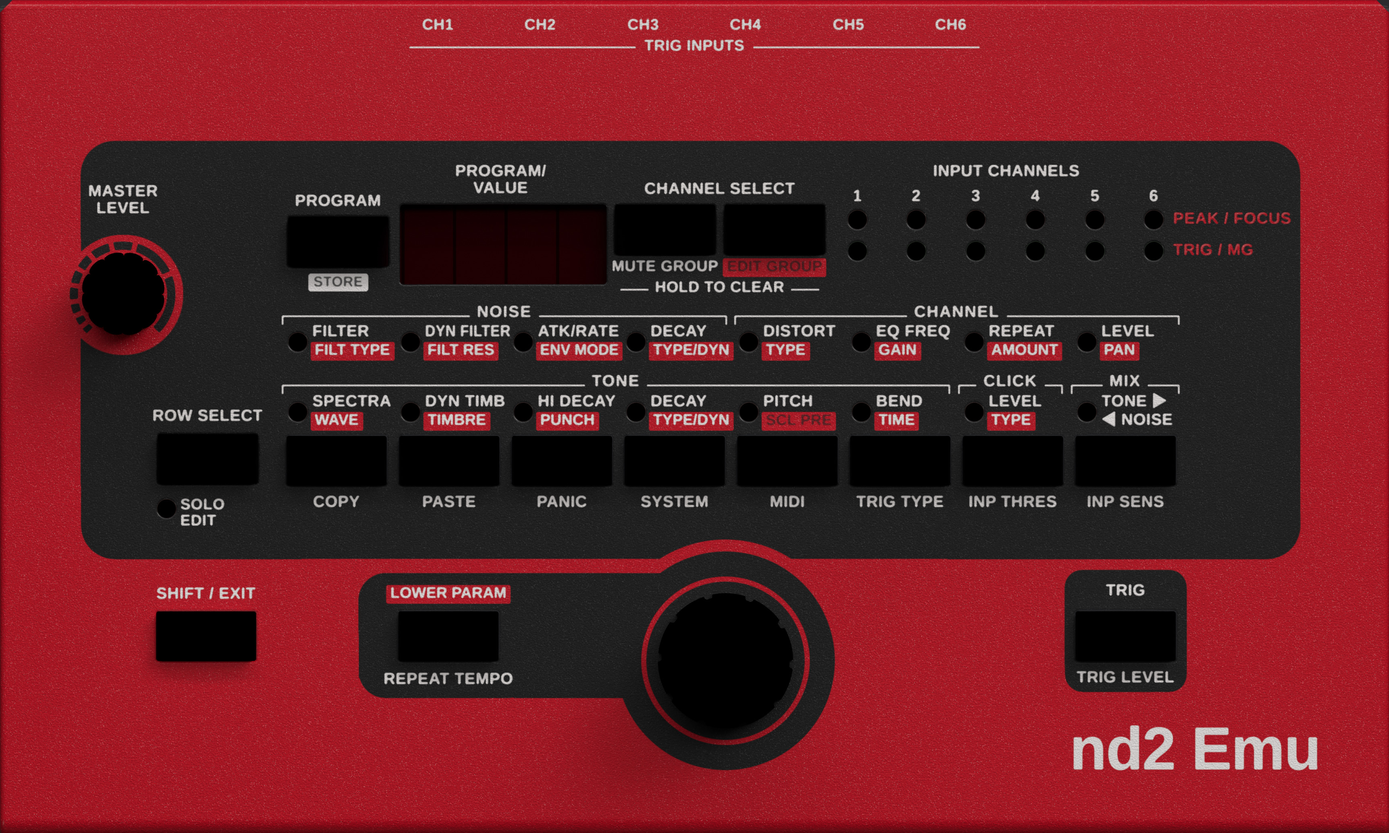
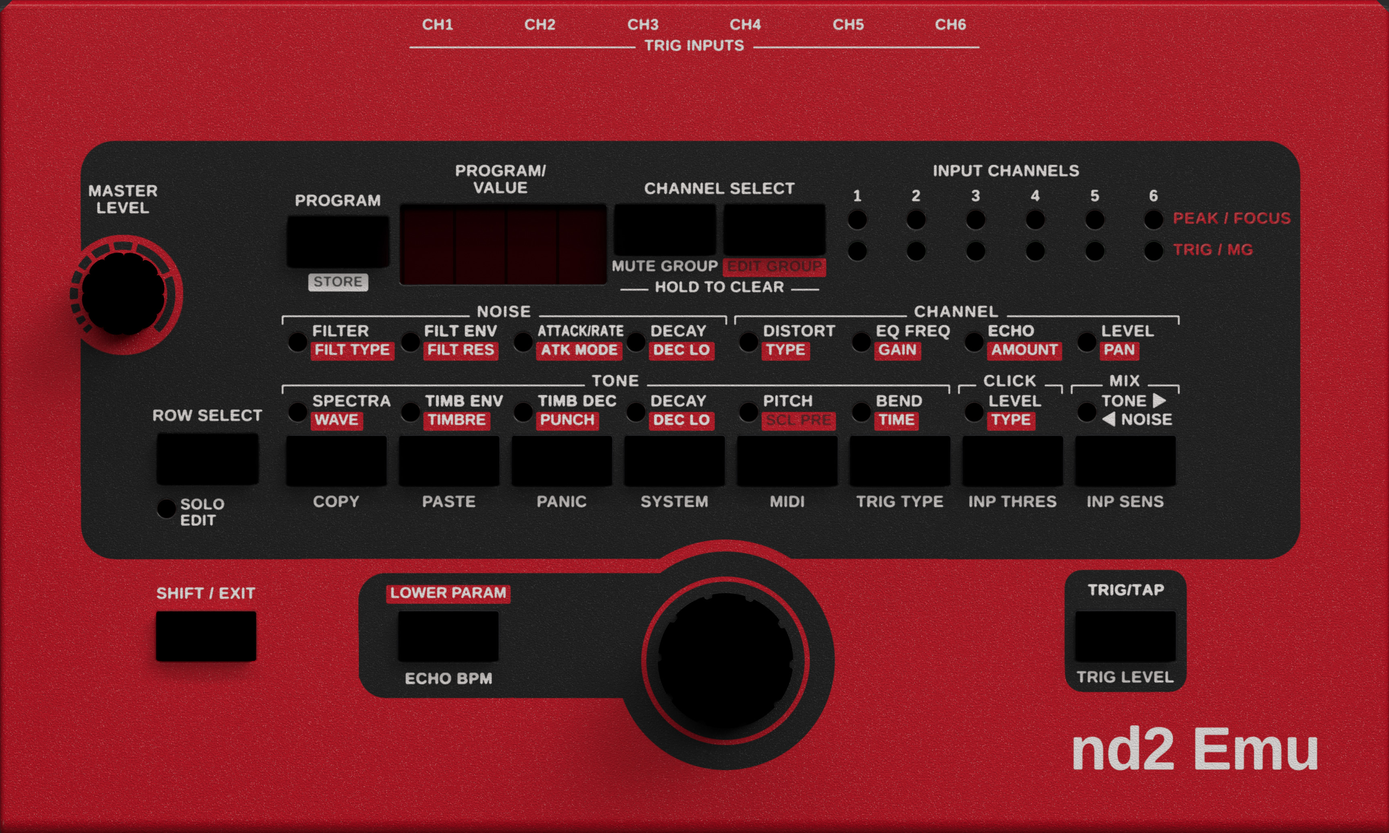
Default skin: background with the newer parameter names
FILT ENV, ATTACK/RATE, ATK MODE, DEC LO (both rows), ECHO, TIMB ENV, TIMB DEC, ECHO BPM and
TRIG/TAP replace the older names on the panel. Only the background image changes; buttons,
LEDs, knobs, display, stylesheet and bent-mode files stay as they are.

From skin-blender: relabel.py (letters the names into the flat art before the paint maps)
and the Skin files workflow's background-only packing, offered as a "Background only"
option of the manual run. The workflow still runs only when started by hand.

Claude-Session: https://claude.ai/code/session_014HvohCNRUpwukZP1kK2uMv

diff --git a/tools/skin/relabel.py b/tools/skin/relabel.py
@@ -1,0 +1,129 @@
+# Renames panel lettering in the flat art the 3D skin is made from (the newer parameter names), so masks.py and the
+# renders pick them up. Old words are painted out with the panel colour around them and the new ones lettered in the
+# art's own style (Liberation Sans Bold, its colours and places); a renamed tag gets a box of the new length.
+# Only the renamed words change; they keep the art's size and weight. ATTACK/RATE is far longer than ATK/RATE: it keeps
+# the full height and its letters are narrowed just enough to stay clear of the next column's LED (owner: taller, not
+# wider).
+#   python3 relabel.py ART_IN.jpg ART_OUT.png
+# The art is never committed; it is made at run time from the owner's art (git show ec1ba0b:...).
+import sys
+
+import numpy as np
+from PIL import Image, ImageDraw, ImageFont
+
+FONT = '/usr/share/fonts/truetype/liberation/LiberationSans-Bold.ttf'
+LABEL_PX, LABEL_LS = 38.4, 1.4           # the art's lettering at 2x: size and spacing that match its words exactly
+TAG_PX, TAG_LS = 35.2, 1.4               # the art's tag lettering at 2x (matched the same way)
+BOLDEN = 0.5                             # extra stroke per side (px at 2x): the art's 6 px stems
+DARKRED_RGB = (98, 9, 12)                # SCL PRE's dark red lettering
+LABEL_RGB, TAG_TEXT_RGB = (222, 222, 222), (240, 223, 223)
+PANEL_RGB, TAG_RGB = (32, 32, 31), (193, 28, 35)
+TAG_PAD_L, TAG_PAD_R, TAG_TOP, TAG_BOTTOM_PAD = 13, 12, 6, 14
+
+# the parameter names, left to right (upper row, lower row); None = unchanged text, relettered at the common size
+PARX = [370, 510, 650, 790, 930, 1070, 1210, 1350]          # column x (dp): LED centre; the name starts 18 dp right
+UPPER = ['FILTER', 'FILT ENV', 'ATTACK/RATE', 'DECAY', 'DISTORT', 'EQ FREQ', 'ECHO', 'LEVEL']
+LOWER = ['SPECTRA', 'TIMB ENV', 'TIMB DEC', 'DECAY', 'PITCH', 'BEND', 'LEVEL', 'TONE \u25b6']
+UPPER_TAGS = ['FILT TYPE', 'FILT RES', 'ATK MODE', 'DEC LO', 'TYPE', 'GAIN', 'AMOUNT', 'PAN']
+LOWER_TAGS = ['WAVE', 'TIMBRE', 'PUNCH', 'DEC LO', 'SCL PRE', 'TIME', 'TYPE', None]   # TONE's column: no tag
+TAG_ROWS = {'up': (846, 900), 'lo': (1020, 1074)}           # the red tag boxes (2x px, y)
+ROW_CAP = {'up': (806, 846), 'lo': (980, 1016)}              # where the old names' letters are (2x px, y)
+NOISE_LINE = (1026, 1070)                                    # the '<| NOISE' line under TONE (2x px, y)
+LED_R = 23                                                   # LED hole radius (2x px)
+GAP = 8                                                      # a name stops this far before the next LED hole
+# (old ink box x0, y0, x1, y1 in 2x art px, new text, kind, anchor x) -- kind: centre, tag
+EDITS = [
+    ((955, 1672, 1272, 1699), 'ECHO BPM', 'centre', 1114),
+    ((2747, 1452, 2841, 1479), 'TRIG/TAP', 'centre', 2796),
+]
+
+
+def text_image(text, px, ls, rgb, bold=BOLDEN):
+    """The word on a transparent image, cropped to its letters from the cap line down. Drawn at 4x and reduced,
+    with a stroke of `bold` px per side: the art's lettering is heavier than the plain font (6 px stems at 20 dp
+    against the font's 5), and smaller lettering needs it to read as bold."""
+    k = 4
+    f = ImageFont.truetype(FONT, px * k)
+    sym = ImageFont.truetype('/usr/share/fonts/truetype/dejavu/DejaVuSans-Bold.ttf', px * k * 0.78)   # the arrows
+    font_of = lambda ch: sym if ch in '\u25b6\u25c0' else f
+    sw = int(round(bold * k))
+    w = int(sum(font_of(ch).getlength(ch) for ch in text) + ls * k * len(text) + 40 * k)
+    im = Image.new('L', (w, int(px * k * 1.6)), 0)
+    d = ImageDraw.Draw(im)
+    x = float(2 * sw)
+    cap_top = f.getbbox('H')[1]
+    for ch in text:
+        g = font_of(ch)
+        dy = 0 if g is f else cap_top - g.getbbox(ch)[1] + (f.getbbox('H')[3] - cap_top - (g.getbbox(ch)[3] - g.getbbox(ch)[1])) / 2
+        d.text((x, dy + sw), ch, font=g, fill=255, stroke_width=sw, stroke_fill=255)
+        x += g.getlength(ch) + ls * k
+    box = im.getbbox()
+    im = im.crop((box[0], max(0, cap_top + sw - sw), box[2], box[3]))
+    im = im.resize((max(1, round(im.width / k)), max(1, round(im.height / k))), Image.LANCZOS)
+    rgba = Image.new('RGBA', im.size, (*rgb, 0))
+    rgba.putalpha(im)
+    return rgba
+
+
+def natural_width(text, px):
+    return text_image(text, px, LABEL_LS * px / LABEL_PX, LABEL_RGB).width
+
+
+RENAMED_LABELS = {('up', 1): 'FILT ENV', ('up', 2): 'ATTACK/RATE', ('up', 6): 'ECHO',
+                  ('lo', 1): 'TIMB ENV', ('lo', 2): 'TIMB DEC'}
+RENAMED_TAGS = {('up', 2): 'ATK MODE', ('up', 3): 'DEC LO', ('lo', 3): 'DEC LO'}
+
+
+def main():
+    art = Image.open(sys.argv[1]).convert('RGB')
+    out = sys.argv[2]
+    d = ImageDraw.Draw(art)
+    px_all = np.asarray(art).astype(np.float32)
+
+    def around(x0, y0, x1, y1, m=10):
+        """The panel colour just around a box (its median, lettering left out)."""
+        ring = np.concatenate([px_all[y0 - m:y0 - 5, x0:x1].reshape(-1, 3), px_all[y1 + 5:y1 + m, x0:x1].reshape(-1, 3)])
+        ring = ring[ring.max(-1) < 120]
+        return tuple(int(v) for v in np.median(ring, 0)) if len(ring) else PANEL_RGB
+
+    def ink_box(x0, x1, y0, y1):
+        sub = px_all[y0:y1, x0:x1]
+        ys, xs = np.where(sub.min(-1) > 150)
+        return (int(xs.min()) + x0, int(ys.min()) + y0, int(xs.max()) + x0, int(ys.max()) + y0)
+
+    # 1) renamed parameter names, at the art's size; ATTACK/RATE as large as fits before the next LED
+    attack_dp = None
+    for (row, i), word in RENAMED_LABELS.items():
+        left = (PARX[i] + 18) * 2
+        limit = PARX[i + 1] * 2 - LED_R - GAP
+        x0, y0, x1, y1 = ink_box(left - 6, (PARX[i + 1] + 18) * 2 - 10, *ROW_CAP[row])
+        d.rectangle((x0 - 4, y0 - 4, x1 + 4, y1 + 4), fill=around(x0, y0, x1, y1))
+        t = text_image(word, LABEL_PX, LABEL_LS, LABEL_RGB)
+        if t.width > limit - left:              # ATTACK/RATE: full height, letters narrowed to fit the column
+            attack_dp = (limit - left) / t.width
+            t = t.resize((limit - left, t.height), Image.LANCZOS)
+        base = ROW_CAP[row][0] + 2 + 28                                   # the row's baseline (cap bottom)
+        art.paste(t, (left, base - t.height), t)
+    # 2) renamed tags, the art's size, boxes of the new length
+    for (row, i), word in RENAMED_TAGS.items():
+        ty0, ty1 = TAG_ROWS[row]
+        x_left = (PARX[i] + 16) * 2
+        sub = px_all[ty0:ty1, x_left - 4:(PARX[i + 1] + 16) * 2 - 8]
+        ys, xs = np.where((sub[..., 0] > 150) & (sub[..., 1] < 90))
+        bx0, by0, bx1, by1 = x_left - 4 + xs.min(), ty0 + ys.min(), x_left - 4 + xs.max(), ty0 + ys.max()
+        d.rectangle((bx0 - 3, by0 - 3, bx1 + 3, by1 + 3), fill=around(bx0, by0, bx1, by1))
+        t = text_image(word, TAG_PX, TAG_LS, TAG_TEXT_RGB)
+        d.rounded_rectangle((bx0, by0, bx0 + TAG_PAD_L + t.width + TAG_PAD_R, by1), radius=4, fill=TAG_RGB)
+        art.paste(t, (bx0 + TAG_PAD_L, by0 + TAG_TOP), t)
+    # 3) the other renamed words, centred where the old ones were
+    for (x0, y0, x1, y1), new, kind, ax in EDITS:
+        d.rectangle((x0 - 4, y0 - 4, x1 + 4, y1 + 4), fill=around(x0, y0, x1, y1))
+        t = text_image(new, LABEL_PX, LABEL_LS, LABEL_RGB)
+        art.paste(t, (round(ax - t.width / 2), y1 + 1 - t.height), t)
+    art.save(out)
+    print('renamed:', ', '.join(list(RENAMED_LABELS.values()) + list(RENAMED_TAGS.values()) + [e[1] for e in EDITS]),
+          f'(all at the art\'s size; ATTACK/RATE narrowed to {attack_dp:.0%} width)')
+
+
+if __name__ == '__main__':
+    main()

diff --git a/tools/skin/blender/pack_skin.py b/tools/skin/blender/pack_skin.py
@@ -83,6 +83,29 @@ else:
 assert bg.size == (3450, 2070), bg.size
 flat = Image.alpha_composite(Image.new('RGBA', bg.size, (*PANEL_BG, 255)), bg).convert('RGB')
 flat.save(os.path.join(OUT, 'ND2Background.jpg'), quality=92, subsampling=0, optimize=True)
+if '--background-only' in sys.argv:          # only the lettering changed: the background is the one file to replace
+    old_md5 = sys.argv[sys.argv.index('--background-only') + 1]
+    rows = [flat.crop((560, 740, 3010, 1090)), flat.crop((880, 1400, 3000, 1720))]
+    W = max(r.width for r in rows)
+    pv = Image.new('RGB', (W, sum(r.height for r in rows) + 20), (245, 245, 245))
+    y = 0
+    for r in rows:
+        pv.paste(r, (0, y))
+        y += r.height + 20
+    pv.save(os.path.join(OUT, 'preview', 'renamed labels (actual size).png'))
+    flat.resize((1725, 1035), Image.LANCZOS).save(os.path.join(OUT, 'preview', 'background (half size).jpg'), quality=90)
+    new_md5 = hashlib.md5(open(os.path.join(OUT, 'ND2Background.jpg'), 'rb').read()).hexdigest()
+    L = ['ND2 default skin: background with the newer parameter names', '',
+         'Copy ND2Background.jpg into skins/default/nd2-default/, replacing the one there. Nothing else changes:',
+         'the buttons, LEDs, knobs, display, stylesheet and the bent-mode files stay as they are.', '',
+         f'  ND2Background.jpg   new md5 {new_md5}   replaces md5 {old_md5}', '',
+         'Renamed on the panel: DYN FILTER -> FILT ENV, ATK/RATE -> ATTACK/RATE, ENV MODE -> ATK MODE,',
+         'TYPE/DYN -> DEC LO (both), REPEAT -> ECHO, DYN TIMB -> TIMB ENV, HI DECAY -> TIMB DEC,',
+         'REPEAT TEMPO -> ECHO BPM, TRIG -> TRIG/TAP.', '',
+         'The preview folder is for review only; it does not go into the skin.']
+    open(os.path.join(OUT, 'README.txt'), 'w').write('\n'.join(L) + '\n')
+    print('\n'.join(L))
+    sys.exit(0)
 
 # ---- buttons: up and pressed, the whole 122 x 59 dp box (it lies inside the hole, so it is all cap and gap) ----
 for cls in ('black', 'grey'):

diff --git a/docs/DEVELOPING.md b/docs/DEVELOPING.md
@@ -91,7 +91,8 @@ build/nd2render -os os.cab -flash flash.bin -trig pads.wav -o out.wav -bank 0.1,
   **Skin files** (panel, buttons, LEDs, knobs) and **Bend files** (the bent panel, the bend pot frames, the LED).
   Each leaves one download with the images, a read-me and previews; copying them into `skins/default/nd2-default/`
   is a separate, reviewed change. Both read the flat panel art from commit `ec1ba0b` (`ART_COMMIT`), which exists
-  only while the repository keeps its history.
+  only while the repository keeps its history. `tools/skin/relabel.py` letters the newer parameter names into that
+  art before the paint maps are made; Skin files' **Background only** option renders just the background.
 
 ## Layout
 
